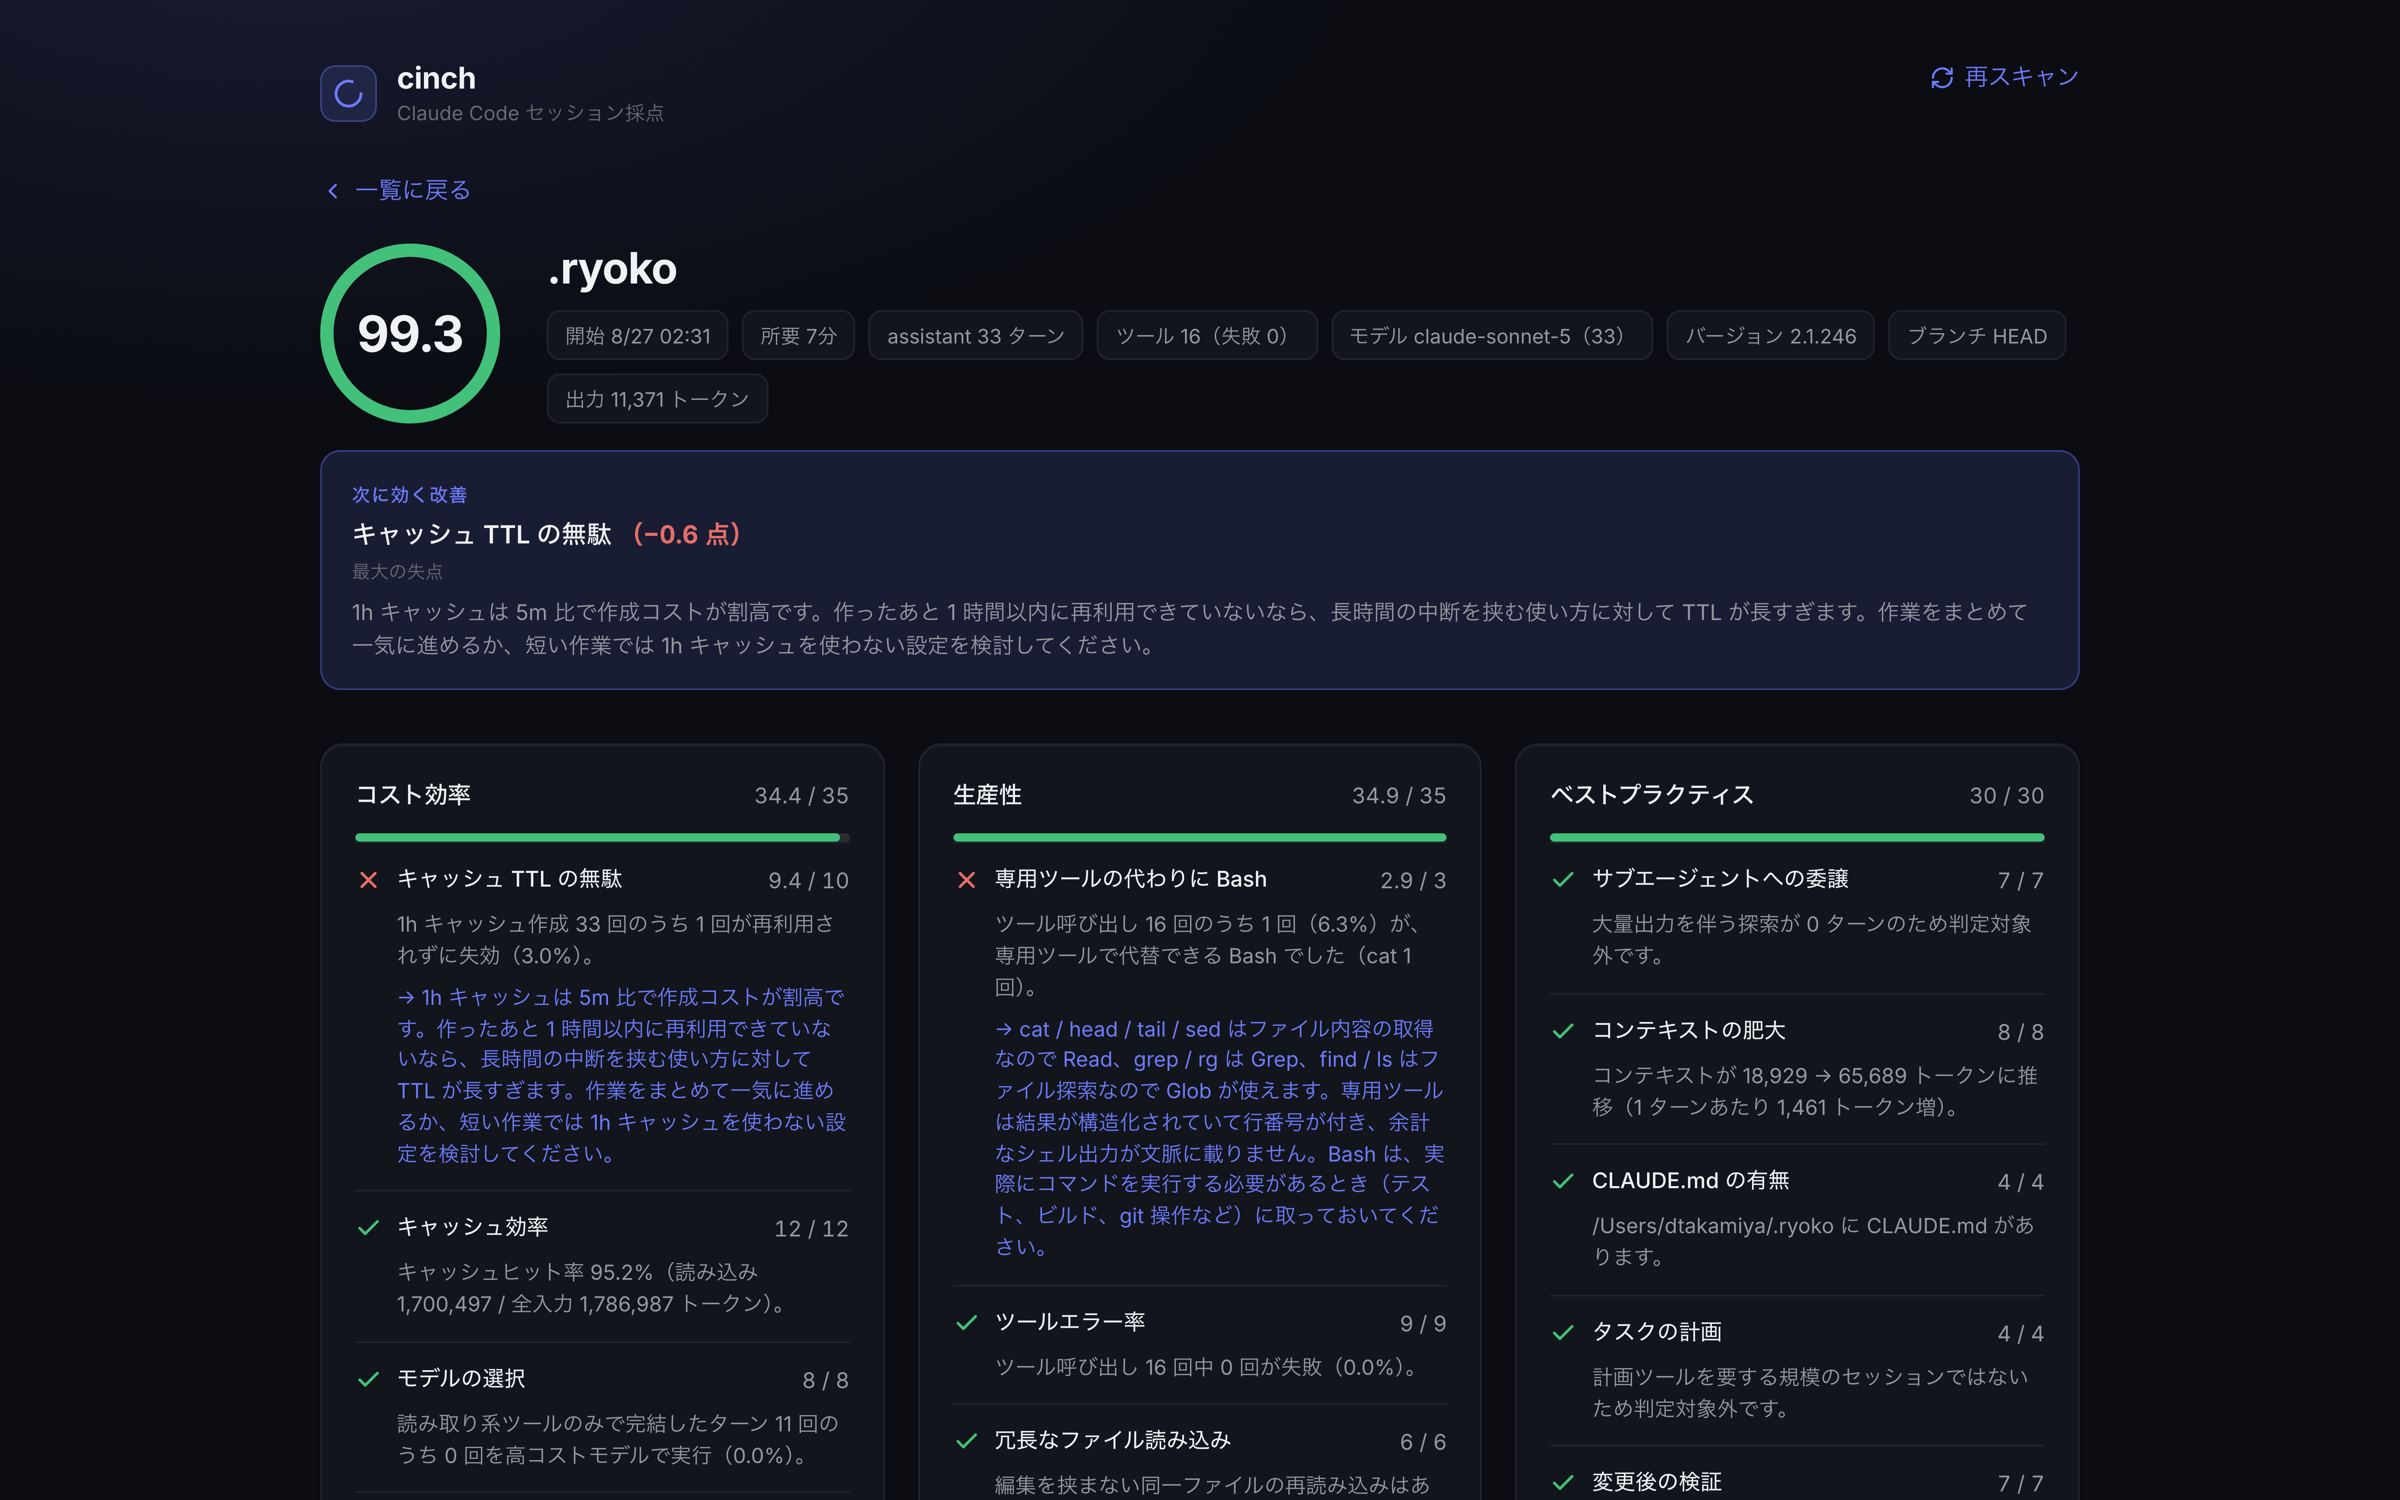
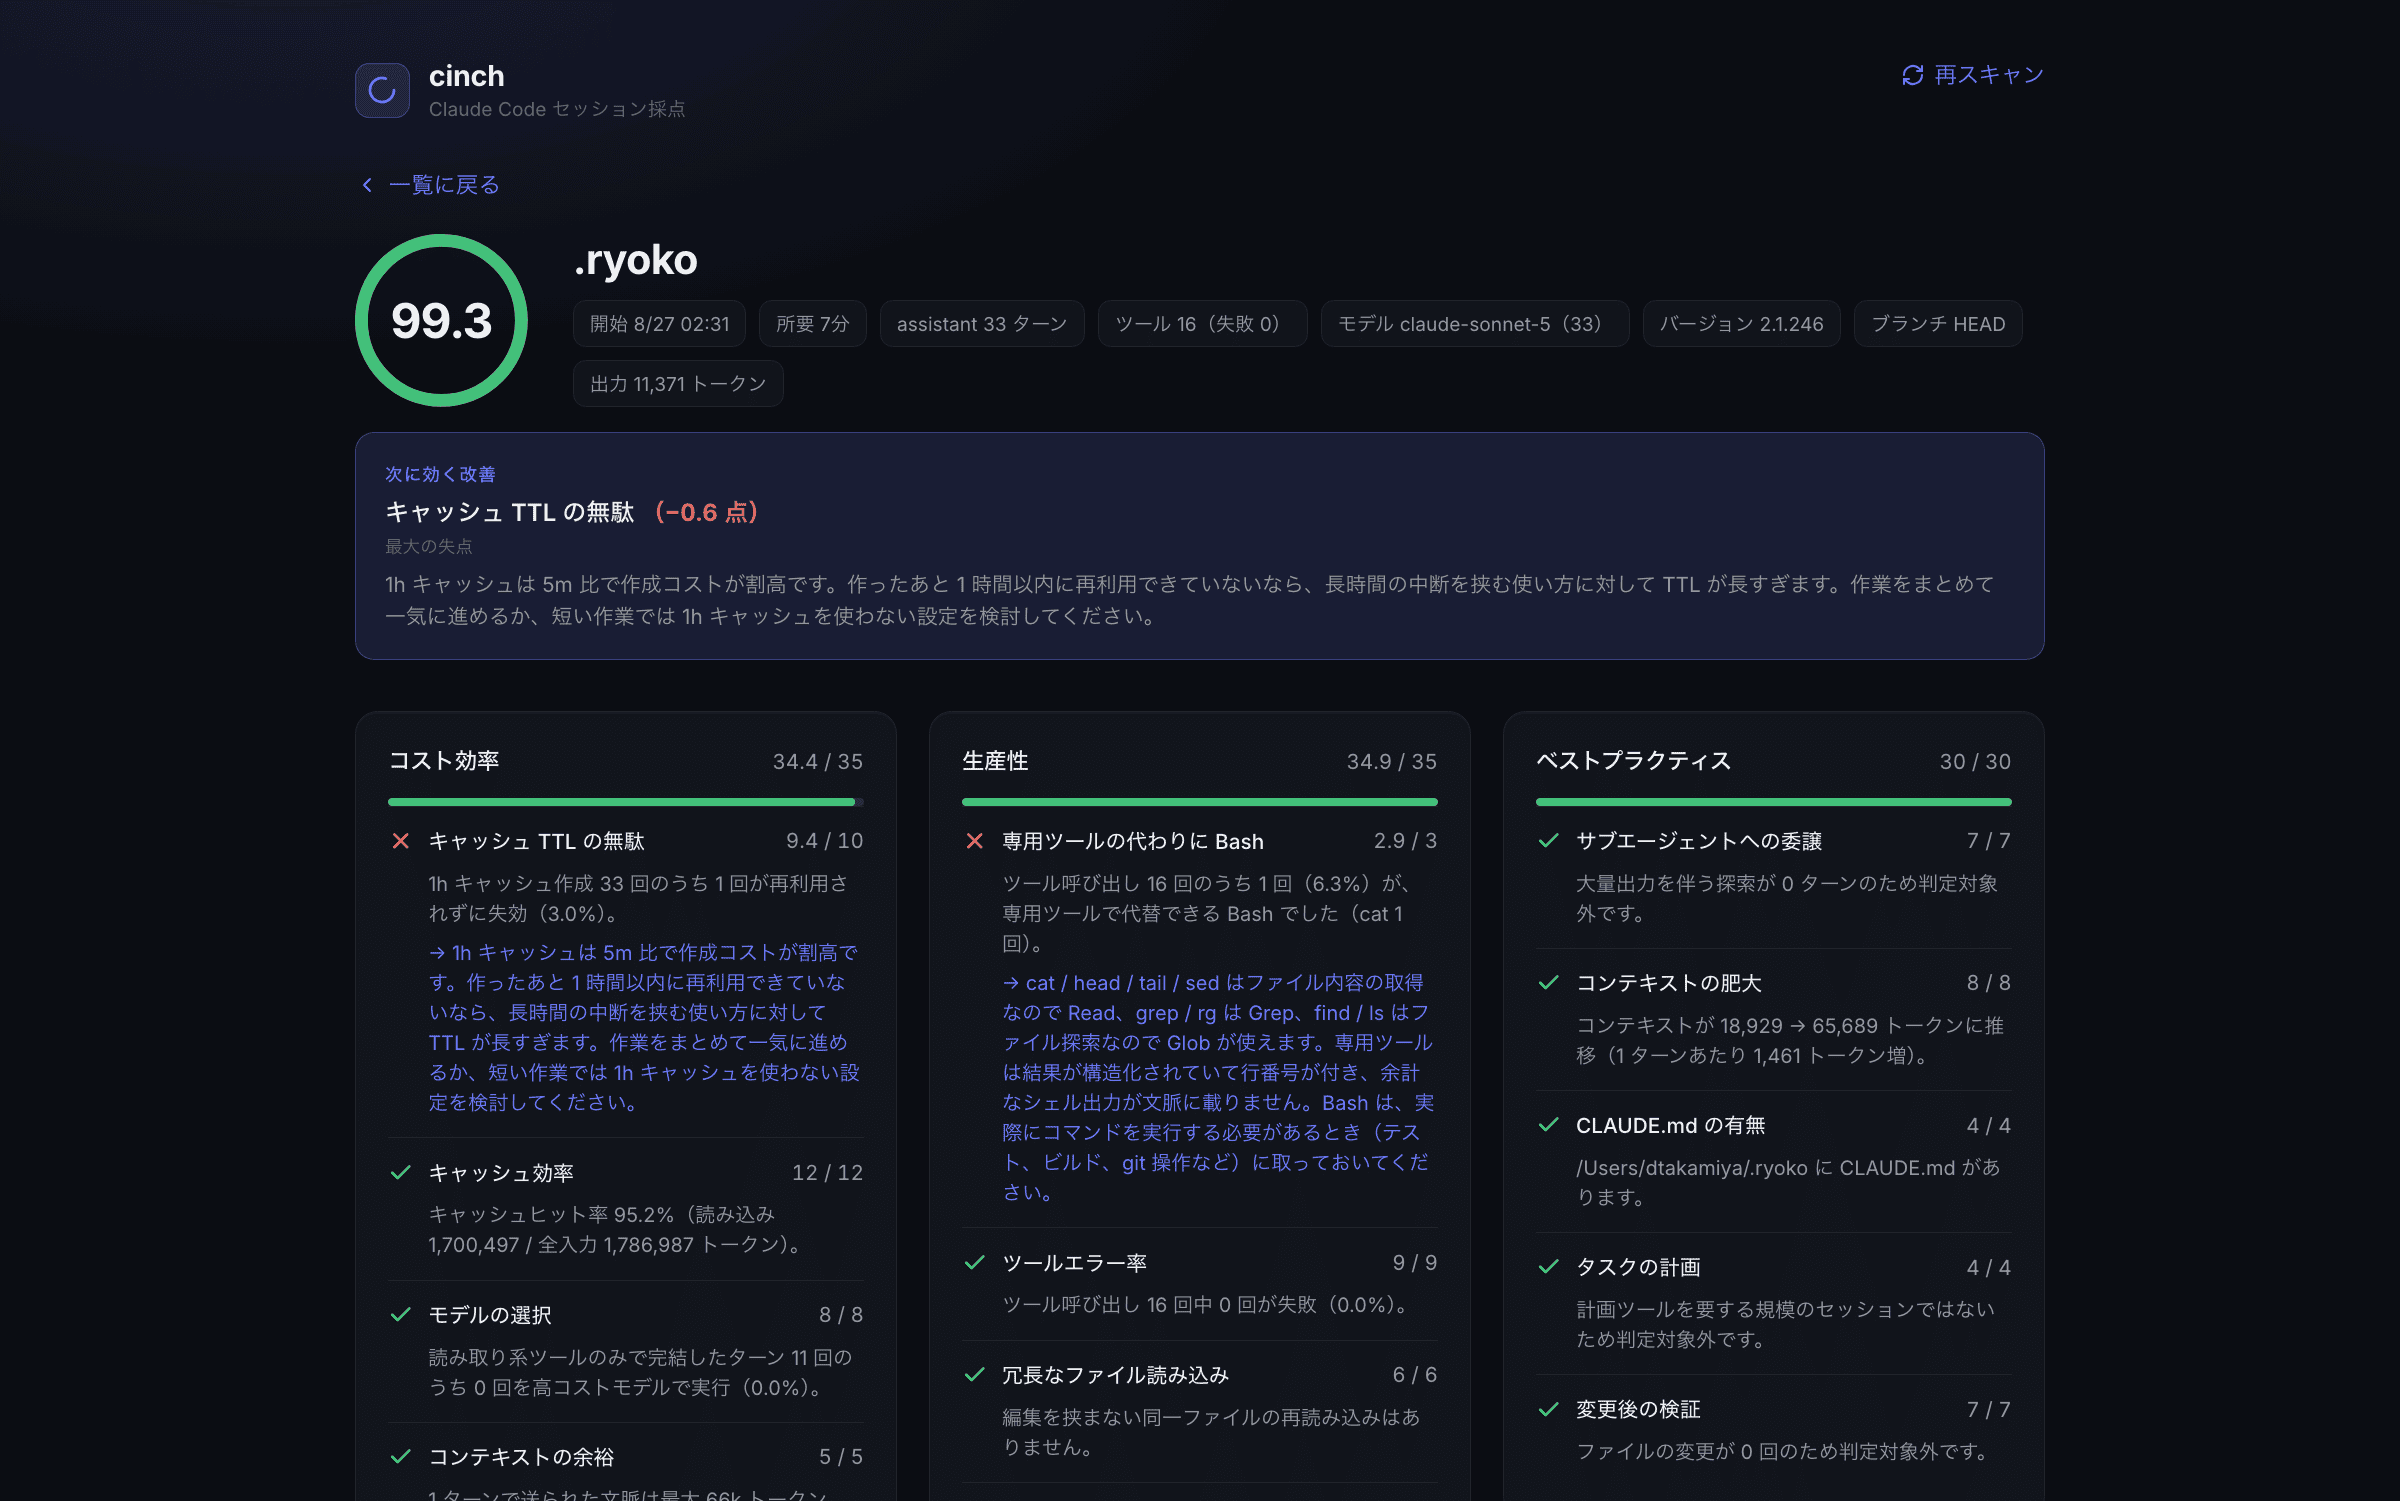
docs: README のスクショを最新 UI で撮り直し、画像を圧縮 (#11)
cinch-013/015 マージ後の採点結果画面（失点量の併記・「次に効く改善」
ブロック・スコア推移の基準明示・フォーカスリング）を反映したスクショに
差し替え。README 本文も現行 UI の説明に更新。

session-detail.png 868K→190K / session-list.png 476K→58K に圧縮。

Sprint 0 / cinch-014

diff --git a/README.md b/README.md
@@ -7,13 +7,13 @@
 
 ### セッション一覧
 
-プロジェクト・期間・並び順で絞り込み、スコアと主な減点を一覧で俯瞰する。
+プロジェクト・期間・並び順で絞り込み、スコアと主な減点（失点量を `−N` で併記）を一覧で俯瞰する。プロジェクトを選ぶと、同一プロジェクトのスコア推移（移動平均線・初回→最新の基準明示）も表示される。
 
 ![セッション一覧](docs/screenshots/session-list.png)
 
 ### セッション詳細
 
-3 カテゴリごとにルール単位のスコアと、減点理由（事実）・改善アクションを表示する。
+最大の失点を「次に効く改善」ブロックとしてスコア直下に昇格し、続けて 3 カテゴリごとにルール単位のスコアと、減点理由（事実）・改善アクションを表示する。
 
 ![セッション詳細](docs/screenshots/session-detail.png)
 
